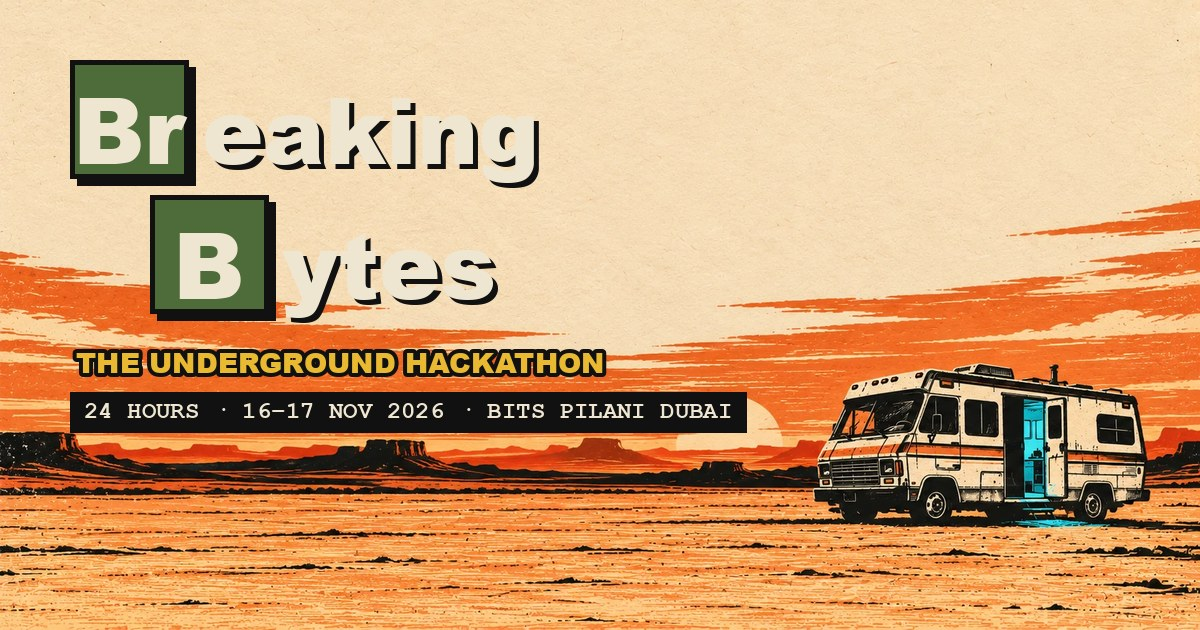
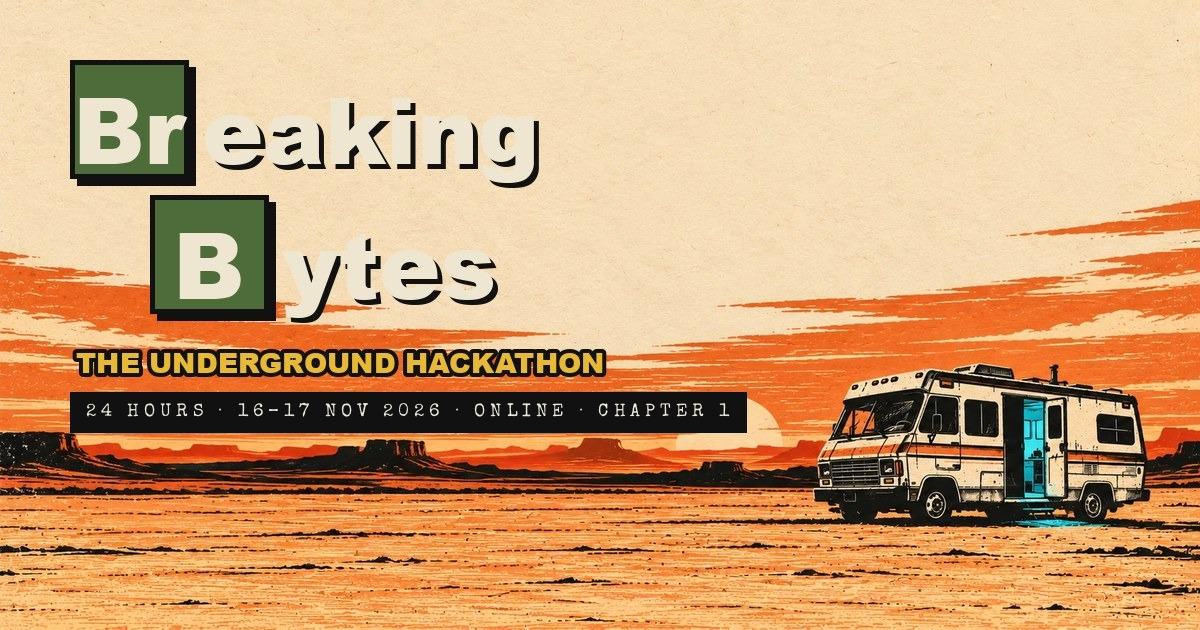
Chapter 1 is fully online: venue 'Online, from anywhere', no check-in / badges / ID / food stalls / venue rows
- Schedule: check-in, mentors on the floor and head home removed (migration renamed to online_only, replaces the
  unpushed check-in wording); the drop says the cook starts from wherever you are; food tag gone (day stamps stay).
- Hero, Where card, footer, lab brief ('three real desert problems', log in / log out), login, onboarding, profile:
  no university ID or campus. Seats -> spots; admin 'Max participants'.
- Sponsors fund the prize pool: 'Funding the cook / Our sponsors'.
- Share image strip re-lettered: 24 HOURS . 16-17 NOV 2026 . ONLINE . CHAPTER 1.

Changed region(s): [[0.0617, 0.6333, 0.37, 0.6635], [0.4008, 0.6333, 0.6167, 0.6635]]

diff --git a/src/data/site.ts b/src/data/site.ts
@@ -30,7 +30,8 @@ export const EVENT = {
   // 16 Nov 10:00 → 17 Nov 10:00 Gulf time (UTC+4); the live clock is Admin → Event.
   startsAt: "2026-11-16T06:00:00Z",
   dates: "16–17 Nov 2026",
-  venue: "BITS Pilani, Dubai Campus",
+  /** Chapter 1 is fully online; "Place, detail" (the Where card splits on the comma) */
+  venue: "Online, from anywhere",
   hours: 24,
   expectedCooks: 200,
   // TODO(admin): confirm eligibility with the club
@@ -41,14 +42,11 @@ export const EVENT = {
 
 /**
  * The run-of-show, read top to bottom along the fuse. `day` = days after the event date (0 = day one).
- * `until` marks a stretch rather than a moment. Times are local to the venue.
+ * `until` marks a stretch rather than a moment. Times are Gulf time (UTC+4).
  * TODO(admin): tentative; confirm with the club.
  */
 export const SCHEDULE: { day: number; time: string; until?: string; title: string; note: string }[] = [
-  { day: 0, time: "09:00", title: "Check-in", note: "Registered online? Show your ID at the door, grab your badge, find your crew." },
-  { day: 0, time: "10:00", title: "Problem statements drop", note: "Problem statements unseal. The 24-hour cook starts now." },
-  { day: 0, time: "10:00", until: "18:00", title: "Mentors on the floor", note: "Stuck? Flag one down. They're around all afternoon." },
-  { day: 0, time: "18:00", title: "Head home", note: "The venue closes. The cook doesn't." },
+  { day: 0, time: "10:00", title: "Problem statements drop", note: "Problem statements unseal in the lab. The 24-hour cook starts now, from wherever you are." },
   { day: 0, time: "23:59", title: "Crews freeze", note: "Last chance to join or change crews. Rosters lock at midnight." },
   { day: 1, time: "10:00", title: "Cook stops", note: "Timer hits zero. Submissions lock." },
   { day: 1, time: "14:00", title: "Top 10% shortlisted", note: "The purest batches make the cut." },
@@ -56,8 +54,8 @@ export const SCHEDULE: { day: number; time: string; until?: string; title: strin
   { day: 1, time: "17:00", title: "Winners announced", note: "Somebody walks out with the cash." },
 ];
 
-/** Always on, so it rides beside the fuse instead of taking a slot. */
-export const FOOD_NOTE = "Food stalls open all day";
+/** An always-on note pinned beside the fuse once per day; none for the online Chapter 1. */
+export const FOOD_NOTE: string | null = null;
 
 export const RULES = [
   "Crews of 1–4 cooks.",
@@ -93,7 +91,7 @@ export const FAQS = [
     a: "Because every empire starts in an RV. This is the first Breaking Bytes: no big backers, a small cash pot, 24 hours and whoever shows up to cook. Chapter 2 is already being written.",
   },
   { q: "Who can join?", a: "Anyone who can cook code. Students, grads, professionals. Crews of 1–4." },
-  { q: "Does it cost anything?", a: "No. Free to enter, and our food sponsors keep you fed." },
+  { q: "Does it cost anything?", a: "No. Free to enter, and you cook from wherever you are." },
   { q: "Can I bring pre-built code?", a: "No pre-cooked repos. Libraries and boilerplate are fine; the product must be built during the 24 hours." },
   { q: "When do problems drop?", a: "Problem statements unseal at 10:00 sharp on day one, for everyone at once. Your leader locks one in for the crew." },
   { q: "What do I submit?", a: "GitHub repo, a live link, and a short demo video — before the timer hits zero." },

diff --git a/src/components/sponsors/Sponsors.tsx b/src/components/sponsors/Sponsors.tsx
@@ -10,7 +10,7 @@ import { CLUB, EVENT } from "@/data/site";
 const SHADOWS = ["shadow-[5px_5px_0_var(--color-gdg-blue)]", "shadow-[5px_5px_0_var(--color-gdg-red)]", "shadow-[5px_5px_0_var(--color-gdg-yellow)]", "shadow-[5px_5px_0_var(--color-gdg-green)]"];
 
 /**
- * ⑥ Sponsors: our food sponsors (the only sponsors this year). No art, just a dusk-to-ink gradient and a row of paper
+ * ⑥ Sponsors: two local food businesses, who fund the prize pool (the only sponsors this year). No art, just a dusk-to-ink gradient and a row of paper
  * element cards with the sponsor's atomic number; the uploaded logo, else the element symbol. Cards lift in one after
  * another as the section scrolls in. Renders nothing until there is a visible sponsor in /admin.
  */
@@ -31,17 +31,17 @@ export function Sponsors() {
       <div aria-hidden className="pointer-events-none absolute -left-40 top-10 size-[36rem] rounded-full bg-rust/15 blur-3xl" />
       <div aria-hidden className="pointer-events-none absolute -right-40 bottom-0 size-[32rem] rounded-full bg-crystal/10 blur-3xl" />
       <span aria-hidden className="pointer-events-none absolute -right-6 top-16 select-none font-stencil text-[22vw] leading-none text-paper/[0.04] md:text-[16vw]">
-        FED
+        CASH
       </span>
       </div>
       <div className="relative mx-auto max-w-5xl">
-        <p className="font-type text-sm uppercase tracking-[0.3em] text-rust">Catering the cook</p>
-        <h2 className="mt-3 font-display text-4xl leading-none sm:text-6xl">Our food sponsors</h2>
+        <p className="font-type text-sm uppercase tracking-[0.3em] text-rust">Funding the cook</p>
+        <h2 className="mt-3 font-display text-4xl leading-none sm:text-6xl">Our sponsors</h2>
         <div aria-hidden className="mt-5 flex h-1.5 w-28">
           <span className="flex-1 bg-gdg-blue" /><span className="flex-1 bg-gdg-red" /><span className="flex-1 bg-gdg-yellow" /><span className="flex-1 bg-gdg-green" />
         </div>
         <p className="mt-4 max-w-xl font-type text-paper-dim">
-          No big backers for {EVENT.chapter}. Just two kitchens keeping the lab fed for twenty-four hours.
+          No big backers for {EVENT.chapter}. These two local kitchens put up the prize money.
         </p>
 
         <ul className="mt-14 grid gap-6 sm:grid-cols-2 lg:grid-cols-3">

diff --git a/src/components/admin/Crews.tsx b/src/components/admin/Crews.tsx
@@ -58,7 +58,7 @@ export function AdminCrews() {
       (!s || r.name.toLowerCase().includes(s) || r.invite_code.toLowerCase().includes(s) || `${r.problem_id ?? ""} ${r.problem_title ?? ""}`.toLowerCase().includes(s) || r.members.some((m) => `${m.name} ${m.email}`.toLowerCase().includes(s))));
   }, [rows, q, onlySubmitted, reg]);
 
-  // people (not crews) per status: the hall's limit is a headcount
+  // people (not crews) per status: the participant limit is a headcount
   const heads = useMemo(() => {
     const n: Record<Reg, number> = { pending: 0, accepted: 0, waitlisted: 0 };
     for (const r of rows ?? []) if (r.status === "active") n[r.registration_status] += r.members.length;
@@ -91,10 +91,10 @@ That makes ${after} accepted people, over the ${seats} seats.` : "";
     <div>
       <H1 sub="Review pre-registrations (accept or waitlist), rename, move people, reassign problems, disqualify. Every change is in the audit log.">Crews</H1>
       <p className="mb-4 text-sm">
-        <span className="text-crystal">{heads.accepted}{seats ? ` / ${seats}` : ""} seats accepted</span>
+        <span className="text-crystal">{heads.accepted}{seats ? ` / ${seats}` : ""} people accepted</span>
         <span className="text-paper-dim"> · {heads.pending} people pending · {heads.waitlisted} waitlisted</span>
         {seats && heads.accepted > seats ? <span className="text-siren"> · over capacity by {heads.accepted - seats}</span> : null}
-        {!seats && <span className="text-paper-dim"> · set the hall&apos;s seats on the Event page</span>}
+        {!seats && <span className="text-paper-dim"> · set a participant limit on the Event page (optional)</span>}
       </p>
       <div className="mb-4 flex flex-wrap items-center gap-3">
         <input className={`${inputCls} max-w-xs`} placeholder="Search crew, code, name, email, problem" value={q} onChange={(e) => setQ(e.target.value)} />

diff --git a/src/components/lab/LabScene.tsx b/src/components/lab/LabScene.tsx
@@ -223,10 +223,10 @@ export function LabStage({ progress, reveal = 1 }: { progress: MotionValue<numbe
           <p className="font-type text-[0.85cqw] uppercase tracking-[0.25em] text-brick portrait:max-sm:text-[2.6vw]">Form BB-24 · The brief</p>
           <h2 className="mt-[0.4cqw] font-display text-[2.3cqw] uppercase leading-[0.95] portrait:max-sm:text-[7.4vw]">What is {EVENT.name}?</h2>
           <p className="mt-[0.9cqw] font-type text-[1.12cqw] leading-snug portrait:max-sm:text-[3.7vw]">
-            A {EVENT.hours}{"‑"}hour hackathon, run underground. You and your crew walk into the lab with an idea and walk out with a working product.
+            A {EVENT.hours}{"‑"}hour hackathon, run underground. You and your crew log into the lab with an idea and log out with a working product.
           </p>
           <p className="mt-[0.6cqw] font-type text-[1.12cqw] leading-snug portrait:max-sm:text-[3.7vw]">
-            Real problems from real companies drop at the start. Cook from scratch, ship before the timer hits zero, and put your batch in front of the judges. The purest build takes the money.
+            Three real desert problems drop at the start. Cook from scratch, ship before the timer hits zero, and put your batch in front of the judges. The purest build takes the money.
           </p>
         </article>
         <Plate at={CARDS[0]} label="When" side="l">

diff --git a/src/app/login/LoginCard.tsx b/src/app/login/LoginCard.tsx
@@ -6,7 +6,7 @@ import { useState } from "react";
 import { safeNext } from "@/lib/safeNext";
 import { supabaseBrowser } from "@/lib/supabase/client";
 
-/** Google is the only door in. (University accounts are still detected as Jesse on the server; IDs are checked at the door.) */
+/** Google is the only door in. (University accounts are still detected as Jesse on the server; no prizes depend on it any more.) */
 export function LoginCard() {
   const params = useSearchParams();
   const [busy, setBusy] = useState(false);
@@ -25,7 +25,7 @@ export function LoginCard() {
       <p className="font-type text-xs uppercase tracking-[0.3em] text-brick">The lab · sign in</p>
       <h1 className="mt-2 font-display text-3xl leading-tight">Say my name.</h1>
       <p className="mt-3 font-type text-sm">
-        Sign in with Google, then start or join a crew. Students: bring your university ID on the day.
+        Sign in with Google, then start or join a crew. The whole cook is online.
       </p>
       {failed && <p className="mt-3 border-2 border-brick px-3 py-2 font-type text-sm text-brick">That didn&apos;t work. Try again.</p>}
       <button

diff --git a/src/components/admin/Event.tsx b/src/components/admin/Event.tsx
@@ -70,7 +70,7 @@ export function AdminEvent() {
             <span className="mt-0.5 block text-xs text-paper-dim">{gulf(cfg[k] as string | null)}</span>
           </label>
         ))}
-        {([["team_max", "Max crew size"], ["seat_cap", "Seats in the hall (people)"], ["prize_pool_aed", "Prize pool (AED)"]] as const).map(([k, label]) => (
+        {([["team_max", "Max crew size"], ["seat_cap", "Max participants (people, blank = no limit)"], ["prize_pool_aed", "Prize pool (AED)"]] as const).map(([k, label]) => (
           <label key={k} className="text-sm">
             <span className="text-xs uppercase tracking-wider text-paper-dim">{label}</span>
             <input type="number" className={`${inputCls} mt-1`} value={cfg[k] ?? ""} onChange={(e) => setCfg({ ...cfg, [k]: e.target.value === "" ? null : Number(e.target.value) })} />

diff --git a/src/app/dashboard/crew/View.tsx b/src/app/dashboard/crew/View.tsx
@@ -144,7 +144,7 @@ function Roster({ crew }: { crew: Crew }) {
 
 // pre-registration: seats are limited, so the organisers review every crew
 const STATUS = {
-  pending: { stamp: "Under review", text: "You're registered. Seats are limited, so the organisers review every crew; this page updates when they decide. Teammates can still join with the code." },
+  pending: { stamp: "Under review", text: "You're registered. Spots are limited, so the organisers review every crew; this page updates when they decide. Teammates can still join with the code." },
   accepted: { stamp: "Accepted", text: "You're in. See you at the lab. Need to change who's in the crew? Talk to an organiser." },
   waitlisted: { stamp: "Waitlist", text: "The hall is full for now, so your crew is on the waitlist. We'll move you up if a seat opens." },
 } as const;

diff --git a/src/components/dashboard/ProfileForm.tsx b/src/components/dashboard/ProfileForm.tsx
@@ -41,7 +41,7 @@ export function ProfileForm({ initial, cta, onSaved }: { initial: Initial; cta: 
     <form onSubmit={save} className="space-y-4">
       <Field label="Your name" value={name} onChange={(e) => setName(e.target.value)} maxLength={60} required hint="What your crew and the organisers see." />
       <p className="border-2 border-dashed border-ink/30 p-3 font-type text-sm text-ink/80">
-        Seats are limited. Add your own LinkedIn and GitHub: both are required.
+        Spots are limited. Add your own LinkedIn and GitHub: both are required.
         <strong className="mt-2 block text-brick">
           We check every profile. Anyone who submits someone else&apos;s LinkedIn or GitHub, or one that doesn&apos;t match their name, will be banned.
         </strong>

diff --git a/src/app/layout.tsx b/src/app/layout.tsx
@@ -8,7 +8,7 @@ const specialElite = Special_Elite({ variable: "--font-special-elite", weight: "
 const stencil = Stardos_Stencil({ variable: "--font-stardos", weight: ["400", "700"], subsets: ["latin"] });
 const inter = Inter({ variable: "--font-inter", subsets: ["latin"] });
 
-const description = "A 24-hour underground hackathon by GDG on Campus BITS Pilani Dubai. Chapter 1. Assemble your crew, pick your problem, cook something 99.1% pure.";
+const description = "A 24-hour online underground hackathon by GDG on Campus BITS Pilani Dubai. Chapter 1. Assemble your crew, pick your problem, cook something 99.1% pure.";
 
 export const metadata: Metadata = {
   // absolute URLs for the share image (opengraph-image.jpg / twitter-image.jpg next to this file)

diff --git a/src/app/dashboard/profile/View.tsx b/src/app/dashboard/profile/View.tsx
@@ -20,8 +20,6 @@ export function ProfilePage() {
         <Kicker>Account</Kicker>
         <p className="mt-3 font-type text-xs uppercase tracking-[0.2em] text-ink/60">Signed in as</p>
         <p className="break-all font-type">{me.email}</p>
-        {/* no Walter / Jesse split on screen any more: every prize is open to everyone */}
-        <p className="mt-4 font-type text-sm text-ink/70">Students: bring your university ID on the day.</p>
         <form action="/auth/signout" method="post" className="mt-6">
           <button className="font-display text-sm uppercase tracking-wider text-brick underline underline-offset-4">Sign out</button>
         </form>

diff --git a/src/components/fuse/FuseTimeline.tsx b/src/components/fuse/FuseTimeline.tsx
@@ -287,7 +287,7 @@ export function FuseTimeline() {
                   </div>
                 </button>
                 {/* food runs all day: a tag pinned in the free space beside the fuse, once per day */}
-                {newDay && (
+                {newDay && FOOD_NOTE && (
                   <p
                     className={`mt-4 inline-block rotate-2 border-2 border-ink bg-hazmat px-3 py-1 font-stencil text-xs font-bold uppercase tracking-wider text-ink shadow-[3px_3px_0_var(--color-ink)] sm:absolute sm:top-10 sm:mt-0 sm:whitespace-nowrap ${left ? "sm:left-[150%]" : "sm:right-[150%]"}`}
                   >

diff --git a/src/app/onboarding/page.tsx b/src/app/onboarding/page.tsx
@@ -33,7 +33,7 @@ export default function Onboarding() {
           <Kicker>First day in the lab</Kicker>
           <h1 className="mt-1 font-display text-3xl">Who&apos;s cooking?</h1>
           <p className="mt-3 font-type text-sm text-ink/80">
-            Tell us who you are, then start a crew or join one with a code. Students: bring your university ID on the day.
+            Tell us who you are, then start a crew or join one with a code.
           </p>
           <div className="mt-5">
             <ProfileForm initial={profileInitial(me)} cta="Enter the lab" onSaved={() => router.replace("/dashboard")} />
